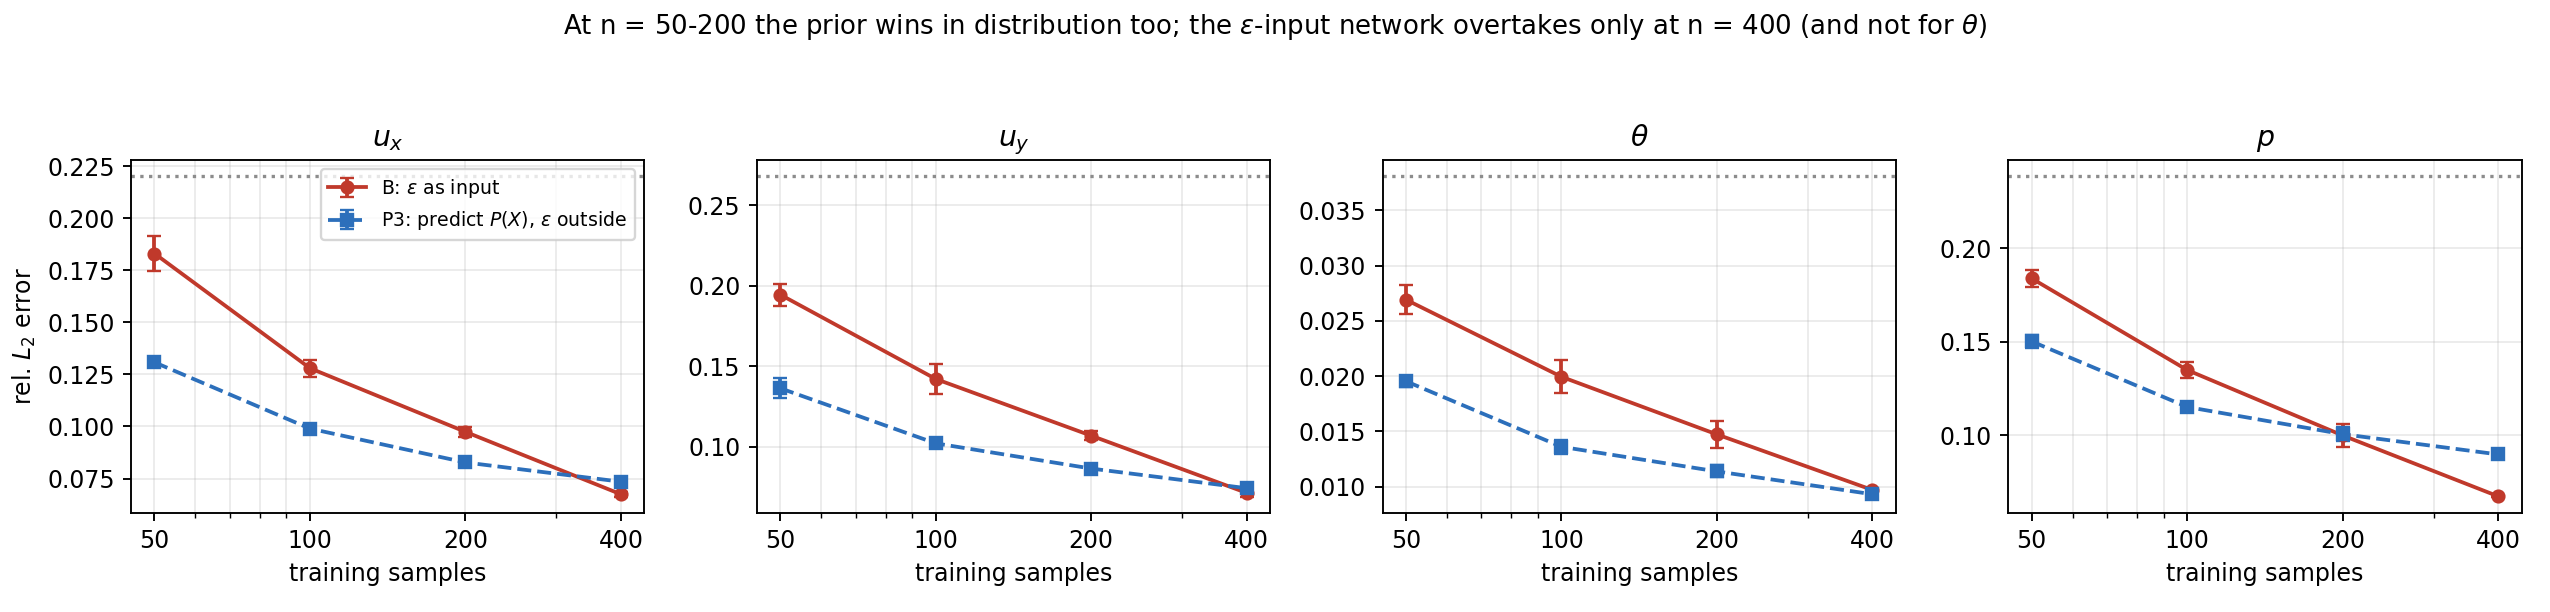
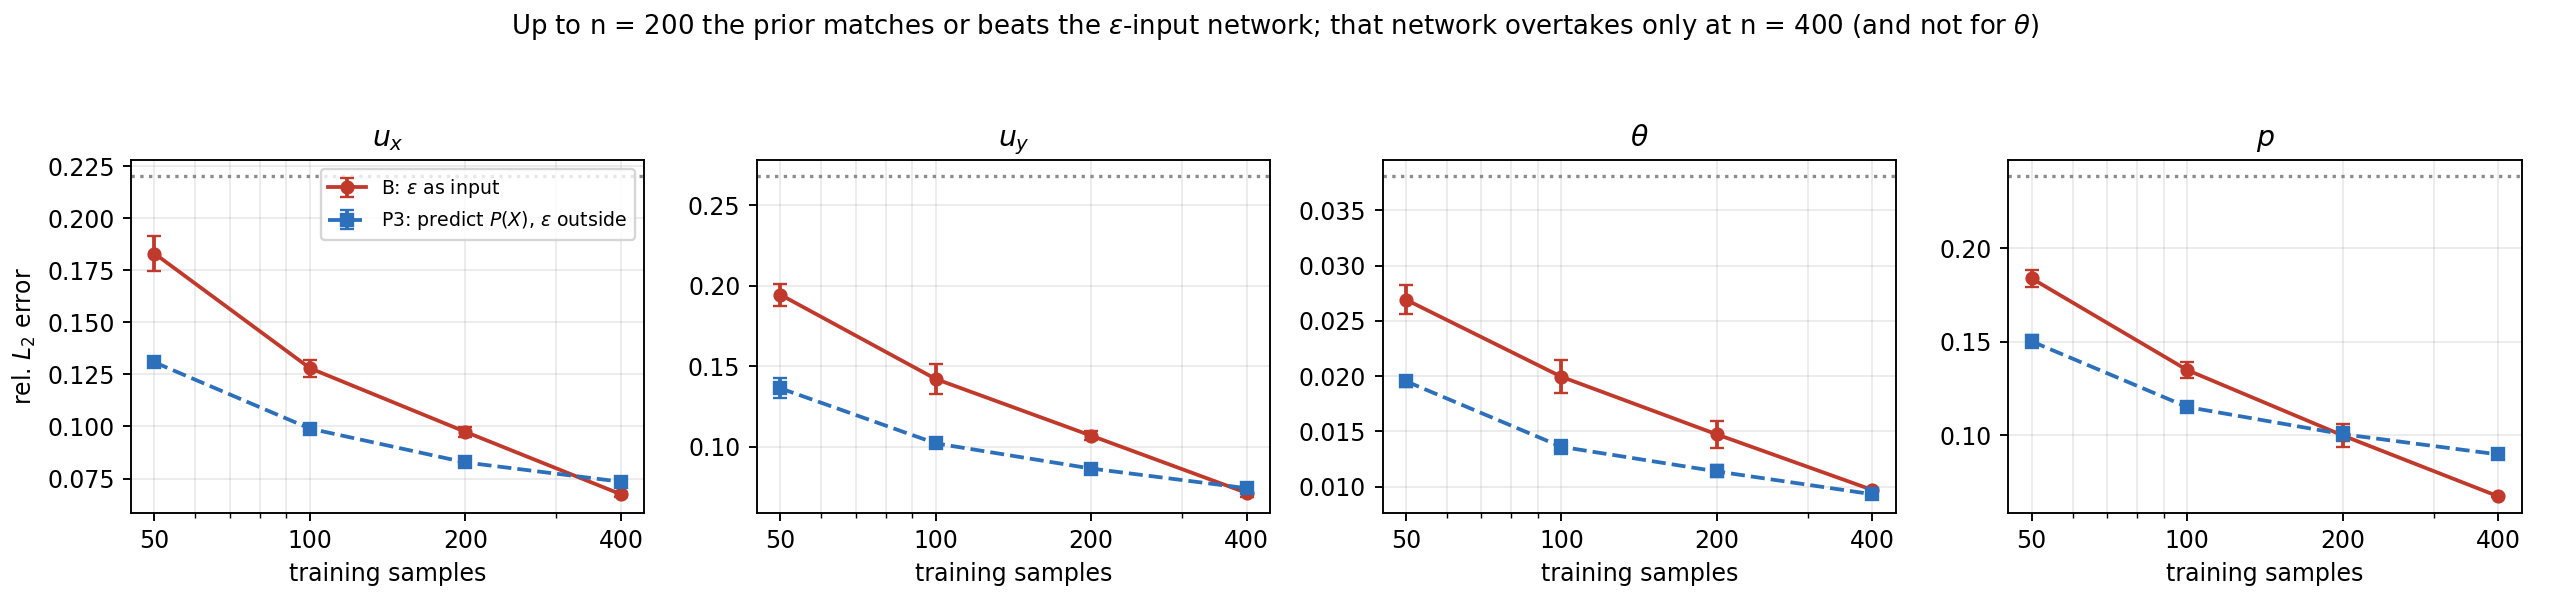
fix(manuscript): 5.4-5.6 数字对齐原始 JSON
- beta 行从单个种子改为 3 种子均值 (外推 0.418/0.321/0.343/0.338, 内插 0.286/0.232/0.252/0.265)
- 摘要/贡献/5.1/5.5 的 beta 区间 0.22-0.42 -> 0.23-0.42; 5.1 残留的 0.20-0.29 同步
- 5.5 二次项增益 8-12% -> 7.6-10.6% (实测 7.6/10.3/7.6/10.6)
- 5.4 浅层模型 'within 2%' 改为与结构化模型 0.0937 对比
- 5.4 POD 模态 47-52 -> 44-52
- 5.6 n=400 的 theta 不该加粗 (P3 的 0.0093 更小, 2.5 sigma)
- 5.6 交叉点段落改写为种子支持的结论 (p 在 n=200 已打平, theta 从不交叉)
- fig4 标题同步; 图 2-6 重生成

Changed region(s): [[0.1859, 0.0, 0.8055, 0.0621]]

diff --git a/调研_算法与换领域/q_motor.py b/调研_算法与换领域/q_motor.py
@@ -1,0 +1,63 @@
+# -*- coding: utf-8 -*-
+"""AI4电机 / AI4电控 的占位与相似律破缺"""
+import json, os, sys, time, urllib.parse, urllib.request
+try: sys.stdout.reconfigure(encoding="utf-8", errors="replace")
+except Exception: pass
+OUT = os.path.join(os.path.dirname(os.path.abspath(__file__)), "raw")
+def s2(q, year="2005-2026", tries=6):
+    u=("https://api.semanticscholar.org/graph/v1/paper/search/bulk?query="+urllib.parse.quote(q)
+       +f"&fields=title,year,venue&year={year}")
+    for a in range(tries):
+        try: return json.load(urllib.request.urlopen(urllib.request.Request(u,headers={"User-Agent":"s/1.0"}),timeout=45))
+        except Exception as e:
+            if a==tries-1: return {"error":str(e)}
+            time.sleep(7*(a+1))
+Q=[
+ # ===== 电机本体 =====
+ ("em_total",      '"electric machine" "machine learning"'),
+ ("em_surr",       '"electric machine" surrogate'),
+ ("motor_design_ml",'"electric motor" "machine learning" design'),
+ ("motor_topopt",  '"electric machine" OR "electric motor" topology optimization'),
+ ("em_no",         '"neural operator" "electromagnetic" OR "neural operator" magnetics'),
+ ("em_fea_ml",     '"electromagnetic" "finite element" surrogate "machine learning"'),
+ ("pm_demag_ml",   '"demagnetization" "machine learning" permanent magnet'),
+ ("motor_fault",   '"motor fault diagnosis" "deep learning"'),
+ ("motor_phm",     '"electric machine" "prognostics" OR "electric machine" "condition monitoring" "deep learning"'),
+ ("motor_thermal", '"electric motor" "thermal" "machine learning" OR "electric machine" thermal model neural'),
+ ("motor_sensorless",'"sensorless control" "machine learning" OR "sensorless" neural network'),
+ ("motor_scaling", '"scaling law" "electric machine" OR "scaling laws" motor'),
+ # ===== 相似律（关键） =====
+ ("steinmetz",     '"Steinmetz"'),
+ ("steinmetz_ml",  '"Steinmetz" "machine learning" OR "Steinmetz" "neural network"'),
+ ("ironloss_ml",   '"iron loss" "machine learning" OR "core loss" "machine learning"'),
+ ("ironloss_model",'"iron loss model" OR "core loss model"'),
+ ("coffinmanson",  '"Coffin-Manson"'),
+ ("coffin_ml",     '"Coffin-Manson" "machine learning" OR "Coffin-Manson" "neural network"'),
+ ("thermal_cycle_life",'"thermal cycling" lifetime "machine learning" power module'),
+ ("arrhenius_ml",  '"Arrhenius" "machine learning" lifetime'),
+ # ===== 电控 / 电力电子 =====
+ ("igbt_ml",       '"IGBT" "machine learning"'),
+ ("igbt_life",     '"IGBT" OR "power module" "remaining useful life"'),
+ ("sic_ml",        '"silicon carbide" "machine learning" OR "SiC MOSFET" "machine learning"'),
+ ("inverter_fault",'"inverter" "fault diagnosis" "deep learning"'),
+ ("converter_ml",  '"power converter" "machine learning" control'),
+ ("mpc_ml_drive",  '"model predictive control" motor drive "machine learning"'),
+ ("rl_motor",      '"reinforcement learning" motor control'),
+ ("rl_converter",  '"reinforcement learning" power electronics OR "reinforcement learning" converter'),
+ ("pmsm_ml",       '"permanent magnet synchronous motor" "machine learning" OR "PMSM" "deep learning"'),
+ ("ev_powertrain_ml",'"electric vehicle" powertrain "machine learning"'),
+ ("bms_ml",        '"battery management system" "machine learning"'),
+ ("emc_ml",        '"electromagnetic compatibility" machine learning OR "EMI" "machine learning"'),
+]
+res={}
+for name, term in Q:
+    d=s2(term)
+    if "error" in d:
+        print("[ERR ] %-18s %s"%(name,term)); res[name]={"err":d["error"]}; time.sleep(4); continue
+    tot=d.get("total",0); data=d.get("data") or []
+    res[name]={"q":term,"total":tot,"top":[{"y":p.get("year"),"t":p.get("title"),"v":p.get("venue")} for p in data[:6]]}
+    print("[%7s] %-18s %s"%(tot,name,term))
+    for p in data[:2]: print("          - (%s) %s | %s"%(p.get("year"),p.get("title"),p.get("venue")))
+    time.sleep(4)
+json.dump(res, open(os.path.join(OUT,"s2_motor.json"),"w",encoding="utf-8"), ensure_ascii=False, indent=1)
+print("\nsaved")

diff --git a/调研_算法与换领域/q_motor3.py b/调研_算法与换领域/q_motor3.py
@@ -1,0 +1,39 @@
+# -*- coding: utf-8 -*-
+import json, os, sys, time, urllib.parse, urllib.request
+try: sys.stdout.reconfigure(encoding="utf-8", errors="replace")
+except Exception: pass
+def s2(q, year="2005-2026", tries=6):
+    u=("https://api.semanticscholar.org/graph/v1/paper/search/bulk?query="+urllib.parse.quote(q)
+       +f"&fields=title,year,venue&year={year}")
+    for a in range(tries):
+        try: return json.load(urllib.request.urlopen(urllib.request.Request(u,headers={"User-Agent":"s/1.0"}),timeout=45))
+        except Exception as e:
+            if a==tries-1: return {"error":str(e)}
+            time.sleep(7*(a+1))
+Q=[
+ ("lptn_total",     '"lumped parameter thermal network"'),
+ ("lptn_motor",     '"lumped parameter thermal network" motor OR "lumped parameter thermal network" machine'),
+ ("lptn_ml",        '"thermal network" "machine learning" electric machine OR "thermal network" "neural network" motor'),
+ ("winding_temp_ml",'"winding temperature" "machine learning" OR "winding temperature" "neural network" motor'),
+ ("motor_temp_est", '"rotor temperature" estimation "machine learning" OR "magnet temperature" estimation neural'),
+ ("traction_motor_th",'"traction motor" thermal'),
+ ("motor_th_surr",  '"electric motor" thermal surrogate OR "electric machine" thermal surrogate'),
+ ("motor_cfd",      '"electric machine" OR "electric motor" CFD thermal'),
+ ("motor_thermal_net",'"thermal model" "electric machine" neural network'),
+ ("em_thermal_dt",  '"electric machine" "digital twin" thermal'),
+ ("motor_loss_heat",'"loss distribution" "electric machine" thermal'),
+ ("pm_temp_ml",     '"magnet temperature" "machine learning"'),
+ ("motor_th_review",'"thermal management" "electric machine" review'),
+ ("igbt_thermal_ml",'"IGBT" OR "power module" "thermal" "machine learning"'),
+ ("electrothermal_ml",'"electro-thermal" "machine learning" power module OR "electrothermal" surrogate'),
+ ("pm_package_life",'"solder" "Coffin-Manson" OR "solder joint" fatigue life machine learning'),
+ ("sic_thermal_ml", '"SiC" "power module" "machine learning" thermal'),
+]
+for name, term in Q:
+    d=s2(term)
+    if "error" in d:
+        print("[ERR ] %-18s %s"%(name,term)); time.sleep(4); continue
+    tot=d.get("total",0); data=d.get("data") or []
+    print("[%7s] %-18s %s"%(tot,name,term))
+    for p in data[:3]: print("          - (%s) %s | %s"%(p.get("year"),p.get("title"),p.get("venue")))
+    time.sleep(4)

diff --git a/调研_算法与换领域/q_motor2.py b/调研_算法与换领域/q_motor2.py
@@ -1,0 +1,40 @@
+# -*- coding: utf-8 -*-
+import json, os, sys, time, urllib.parse, urllib.request
+try: sys.stdout.reconfigure(encoding="utf-8", errors="replace")
+except Exception: pass
+def s2(q, year="2005-2026", tries=6):
+    u=("https://api.semanticscholar.org/graph/v1/paper/search/bulk?query="+urllib.parse.quote(q)
+       +f"&fields=title,year,venue&year={year}")
+    for a in range(tries):
+        try: return json.load(urllib.request.urlopen(urllib.request.Request(u,headers={"User-Agent":"s/1.0"}),timeout=45))
+        except Exception as e:
+            if a==tries-1: return {"error":str(e)}
+            time.sleep(7*(a+1))
+Q=[
+ ("steinmetz_ml",   '"Steinmetz" "machine learning"'),
+ ("steinmetz_nn",   '"Steinmetz" "neural network"'),
+ ("steinmetz_eq",   '"Steinmetz equation"'),
+ ("ironloss_ml",    '"iron loss" "machine learning"'),
+ ("coreloss_ml",    '"core loss" "machine learning"'),
+ ("ironloss_model", '"iron loss model"'),
+ ("coreloss_model", '"core loss model"'),
+ ("coffinmanson",   '"Coffin-Manson"'),
+ ("coffin_ml",      '"Coffin-Manson" "machine learning"'),
+ ("coffin_nn",      '"Coffin-Manson" "neural network"'),
+ ("thermcycle_life",'"thermal cycling" "remaining useful life" power module'),
+ ("arrhenius_ml",   '"Arrhenius" "machine learning" lifetime'),
+ ("igbt_ml",        '"IGBT" "machine learning"'),
+ ("igbt_rul",       '"IGBT" "remaining useful life"'),
+ ("powermodule_rul",'"power module" "remaining useful life"'),
+ ("elec_themal_ml", '"electric machine" "thermal" model machine learning'),
+ ("lossmap_ml",     '"loss map" OR "efficiency map" "machine learning" motor'),
+ ("mag_no",         '"neural operator" Maxwell equations'),
+]
+for name, term in Q:
+    d=s2(term)
+    if "error" in d:
+        print("[ERR ] %-18s %s"%(name,term)); time.sleep(4); continue
+    tot=d.get("total",0); data=d.get("data") or []
+    print("[%7s] %-18s %s"%(tot,name,term))
+    for p in data[:3]: print("          - (%s) %s | %s"%(p.get("year"),p.get("title"),p.get("venue")))
+    time.sleep(4)

diff --git a/code/make_figs.py b/code/make_figs.py
@@ -68,7 +68,7 @@ if d:
         a.xaxis.set_minor_formatter(NullFormatter())
         a.set_xlabel('training samples', fontsize=10); a.grid(alpha=.25, which='both')
         if k == 0: a.set_ylabel(r'rel. $L_2$ error', fontsize=10); a.legend(fontsize=8)
-    fig.suptitle('At n = 50-200 the prior wins in distribution too; the ' + r'$\varepsilon$' + '-input network overtakes only at n = 400 (and not for ' + r'$\theta$' + ')', fontsize=11)
+    fig.suptitle('Up to n = 200 the prior matches or beats the ' + r'$\varepsilon$' + '-input network; that network overtakes only at n = 400 (and not for ' + r'$\theta$' + ')', fontsize=11)
     fig.tight_layout(rect=[0, 0, 1, .93]); f = P + '/fig4_learning.png'; fig.savefig(f); print('saved', f)
 
 # ---------------- 图 5：律在三种流体/几何 + 独立数据集上 ----------------
